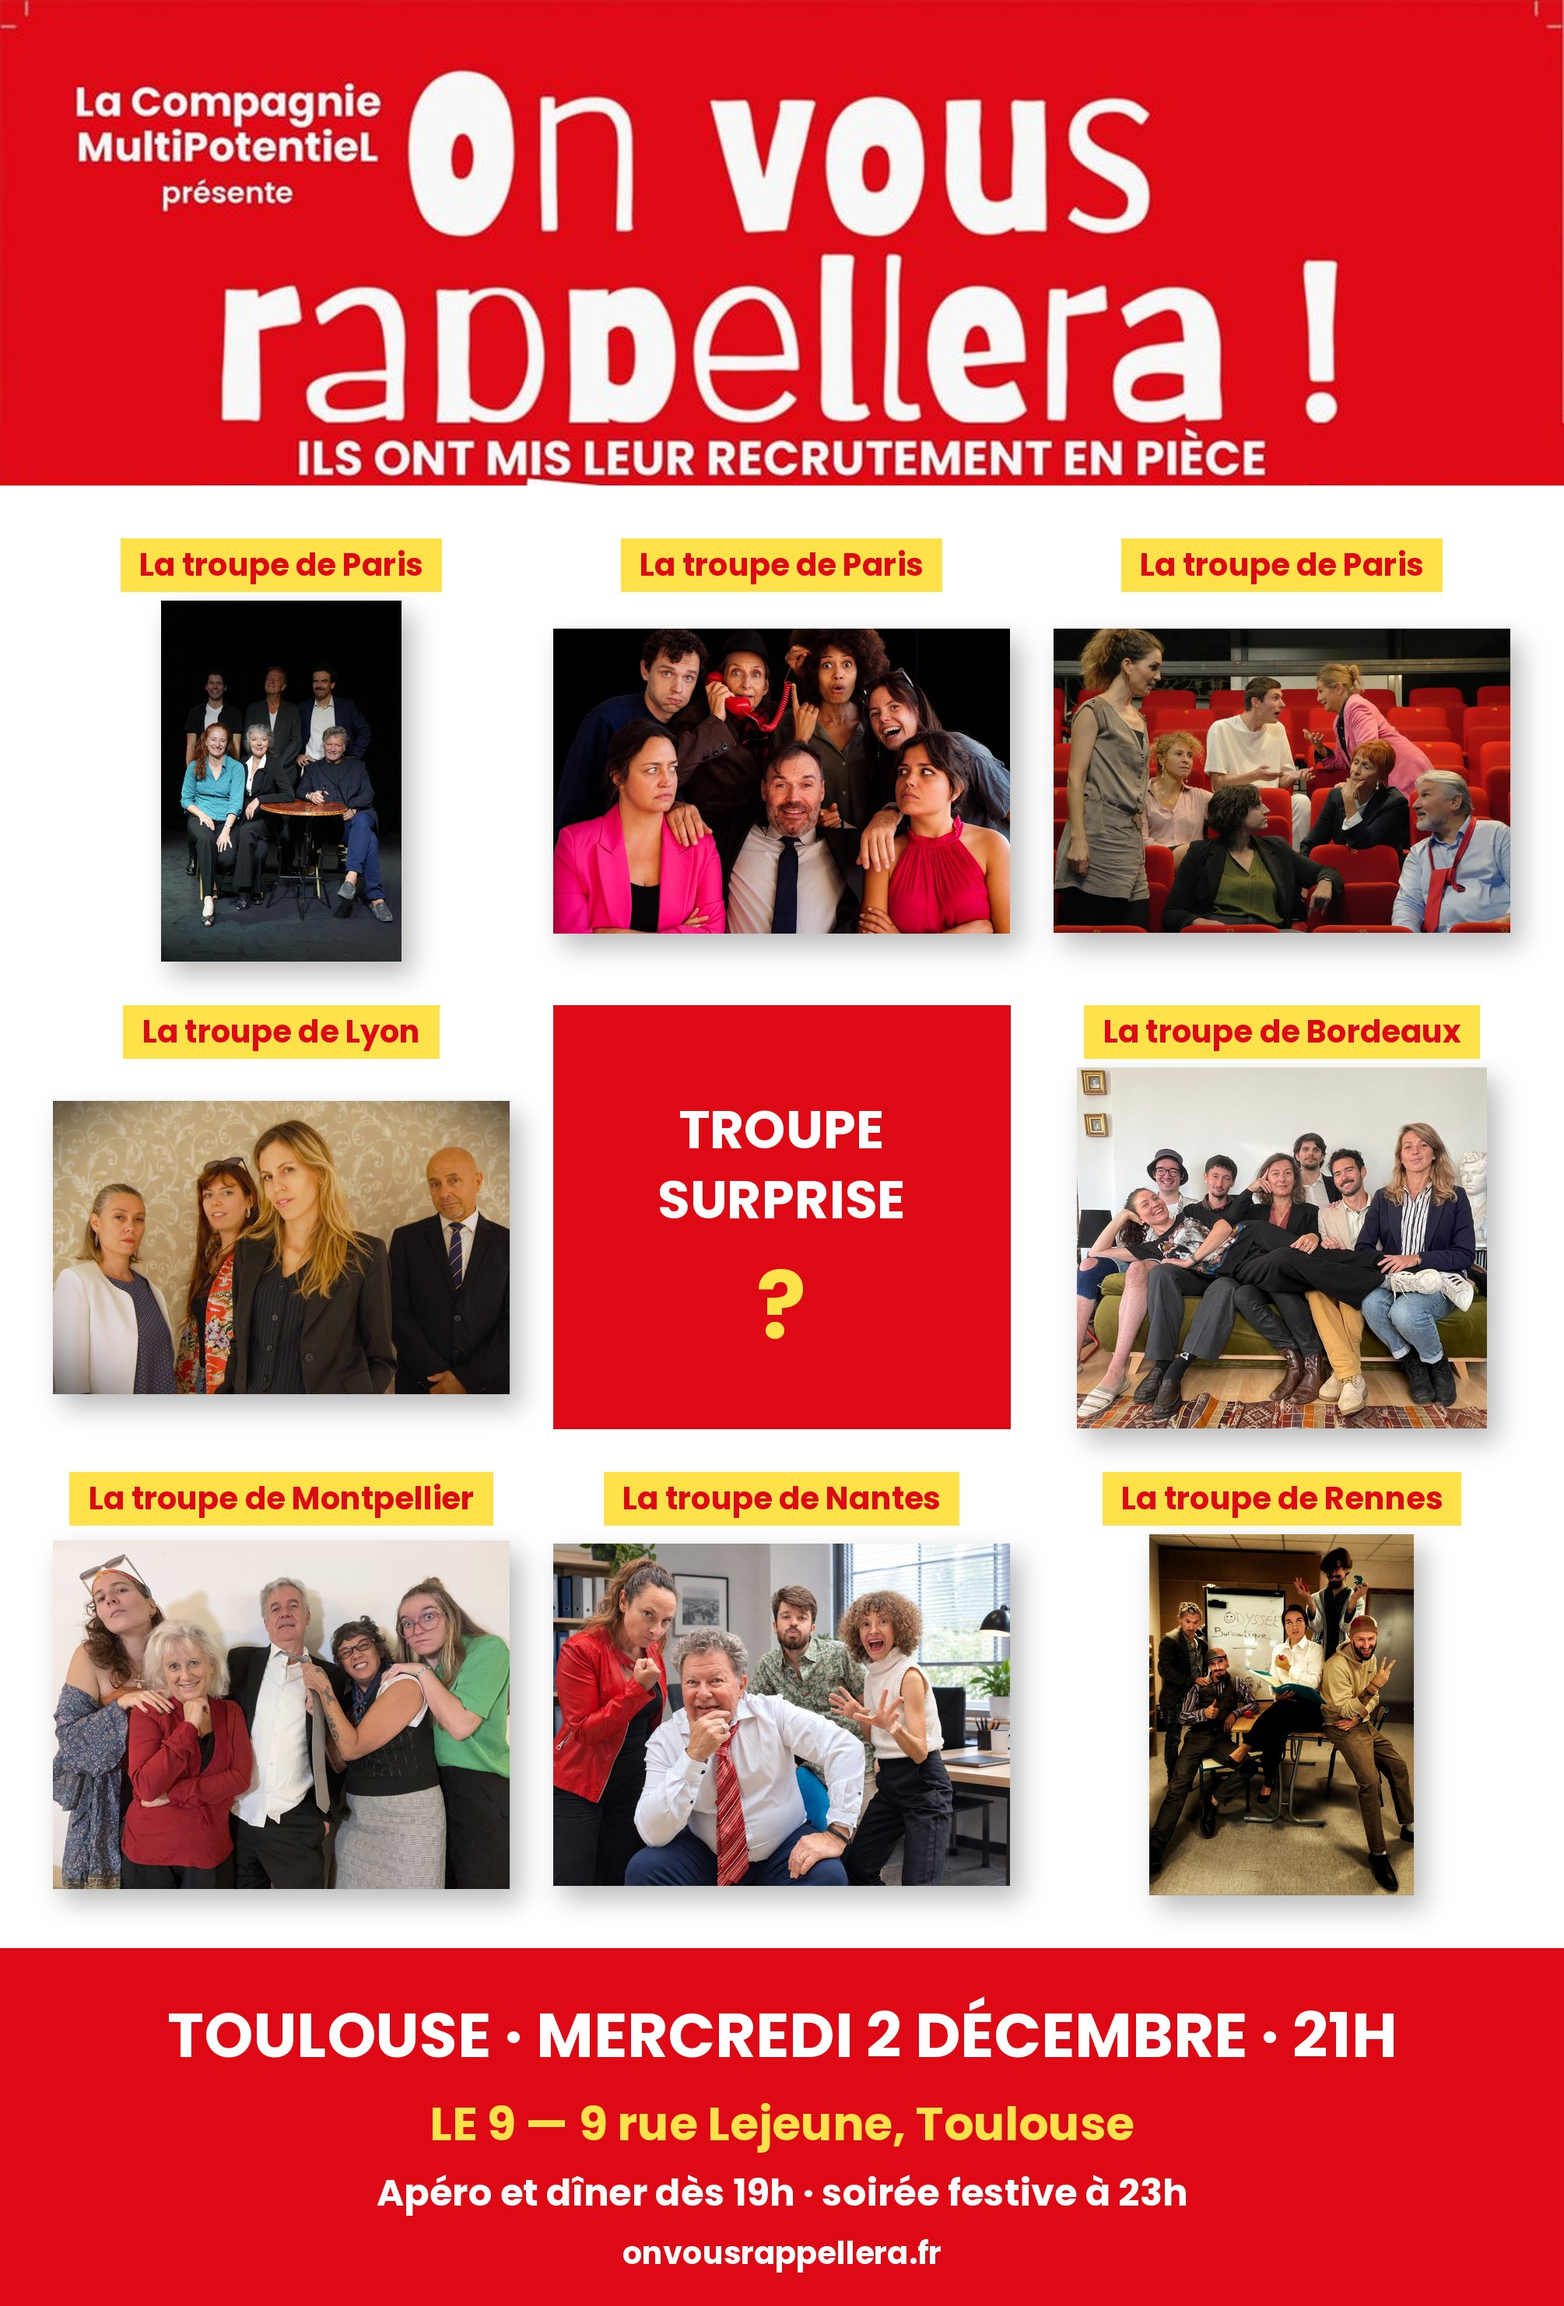
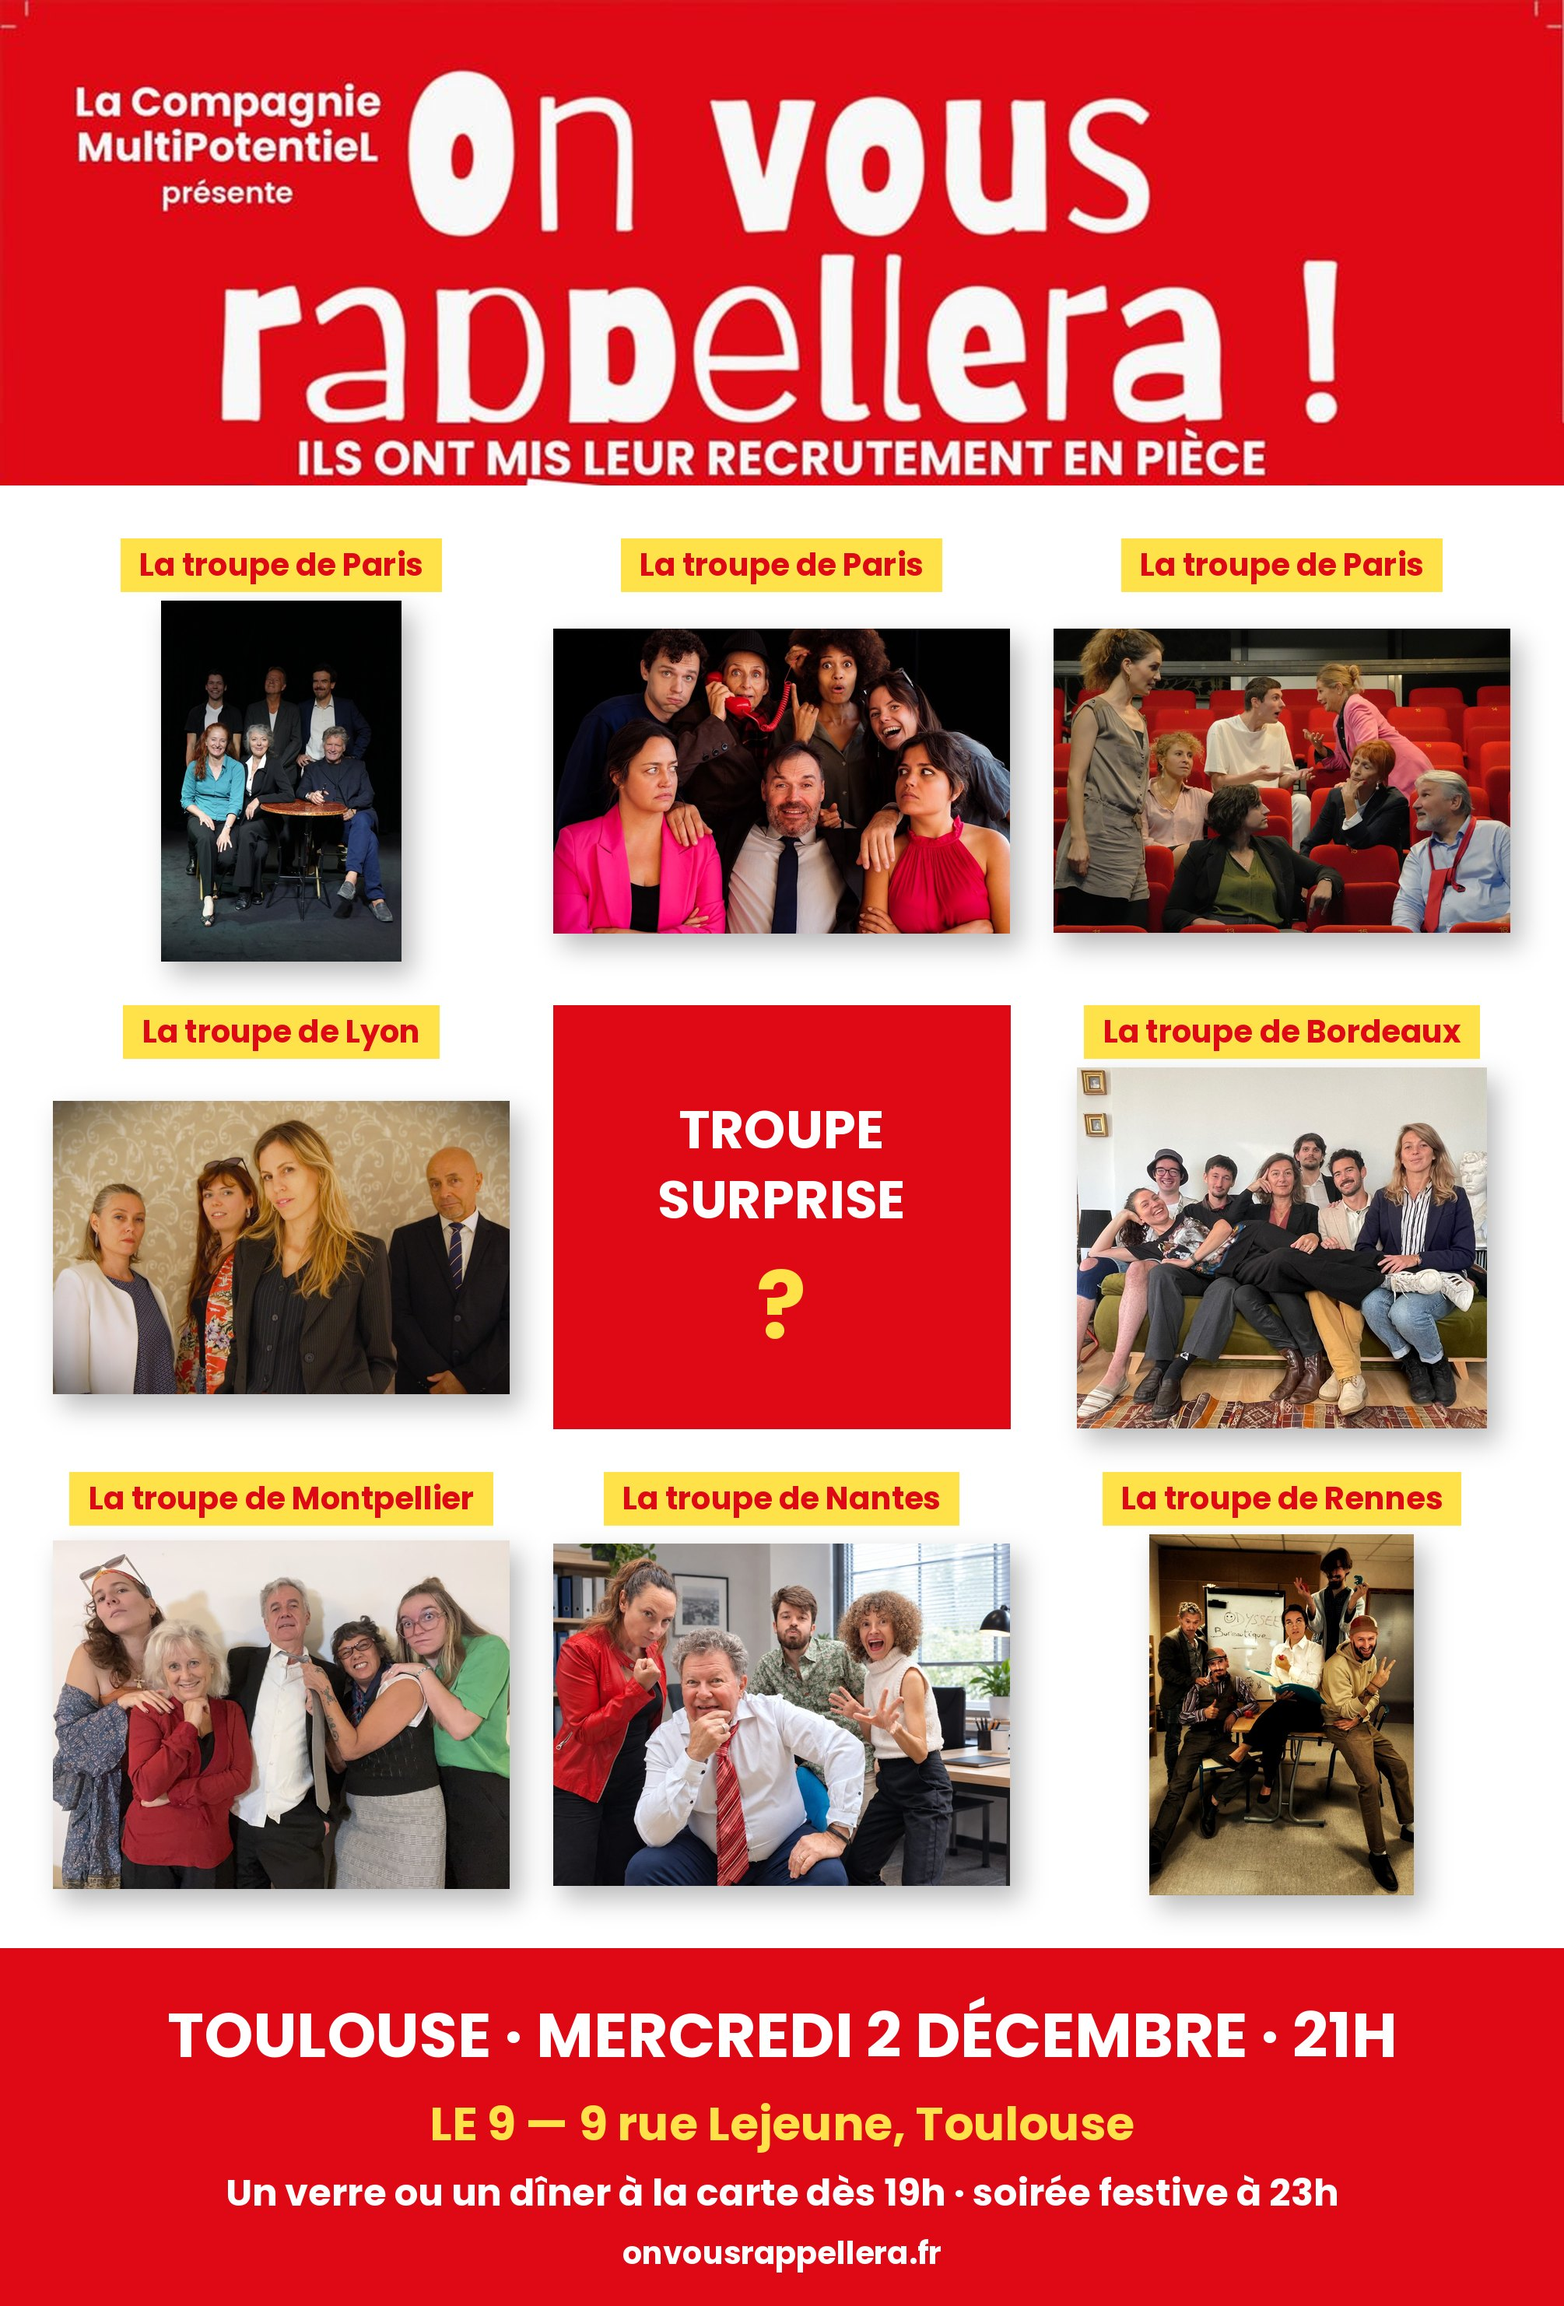
Affiche BDR : un verre ou un dîner à la carte dès 19h
Claude-Session: https://claude.ai/code/session_01Mm1mn1FbtZxvcbrDefrDaq

Changed region(s): [[0.1542, 0.9312, 0.8637, 0.9622]]

diff --git a/bdr-toulouse-434fac46.html b/bdr-toulouse-434fac46.html
@@ -126,7 +126,7 @@ footer a{color:var(--gris);}
   </header>
 
   <section class="affiche">
-    <video controls playsinline preload="metadata" poster="assets/bdr/affiche-bdr-2-decembre.jpg" title="Teaser ON VOUS RAPPELLERA"><source src="assets/video/ovr-teaser-2026-v5.mp4" type="video/mp4">Votre navigateur ne lit pas cette vidéo : <a href="assets/video/ovr-teaser-2026-v5.mp4">ouvrir la vidéo</a>.</video>
+    <video controls playsinline preload="metadata" poster="assets/bdr/affiche-bdr-2-decembre.jpg?v=2" title="Teaser ON VOUS RAPPELLERA"><source src="assets/video/ovr-teaser-2026-v5.mp4" type="video/mp4">Votre navigateur ne lit pas cette vidéo : <a href="assets/video/ovr-teaser-2026-v5.mp4">ouvrir la vidéo</a>.</video>
   </section>
 
   <section>
